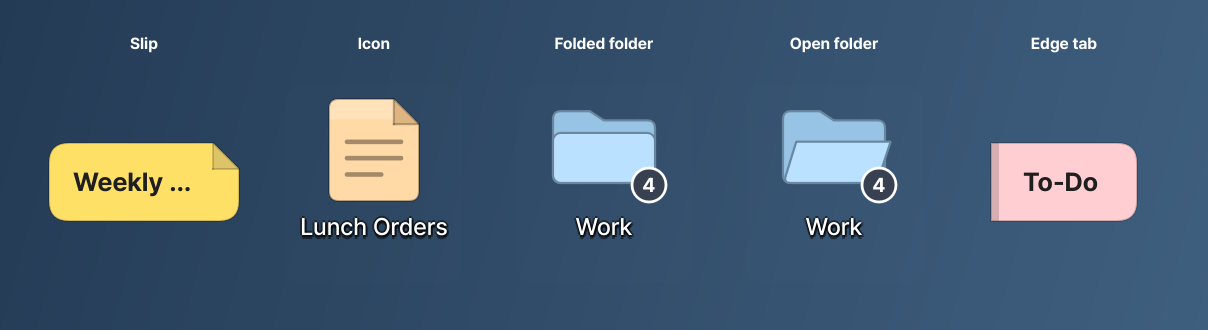
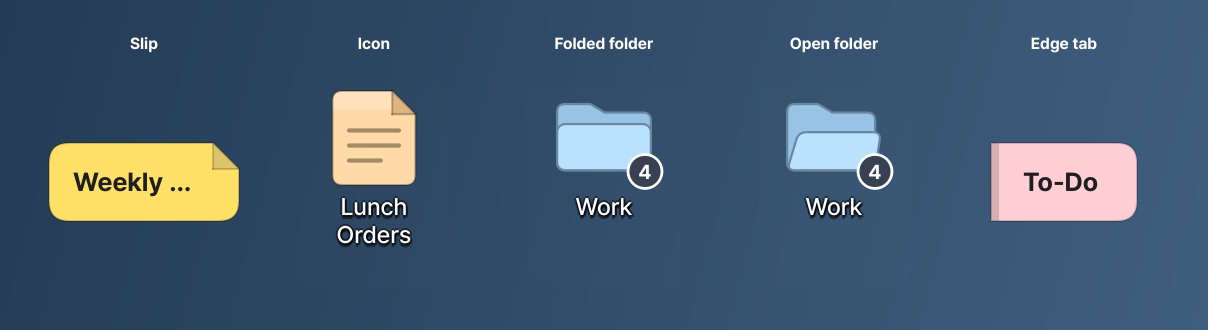
소개 그림이 새로 고쳐도 옛것으로 보이던 것
그림 파일만 바꾸면 주소가 같아 브라우저가 캐시의 옛 그림을 다시 썼다. 세 언어
페이지의 그림 주소에 ?v=1.0.4 를 붙였다(그림을 바꾸면 이 값도 바꾼다). README 의
아이콘 그림도 1.0.4 화면으로 바꿨다.

Changed region(s): [[0.245, 0.2727, 0.3675, 0.7576], [0.6432, 0.303, 0.7657, 0.7273], [0.4594, 0.303, 0.5513, 0.7273]]

diff --git a/docs/ja/index.html b/docs/ja/index.html
@@ -9,7 +9,7 @@
 <meta property="og:type" content="website">
 <meta property="og:title" content="メミメモ">
 <meta property="og:description" content="オフィスの PC 同士で一緒に使うデスクトップメモ。外部のインターネットには接続せず、社内ネットワークの中だけで同期します。">
-<meta property="og:image" content="https://leeseunggyu8.github.io/MemilMemo/images/ja/hero.png">
+<meta property="og:image" content="https://leeseunggyu8.github.io/MemilMemo/images/ja/hero.png?v=1.0.4">
 <meta property="og:url" content="https://leeseunggyu8.github.io/MemilMemo/ja/">
 <meta property="og:locale" content="ja_JP">
 <link rel="canonical" href="https://leeseunggyu8.github.io/MemilMemo/ja/">
@@ -71,7 +71,7 @@
         <div class="vis">
           <!-- assets/scene.js draws the moving scene here. Its text is at the bottom of this file. -->
           <figure class="shot" id="scene" role="img" aria-label="2台の PC が同じメモを一緒に使い、デスクトップでメモを付箋やアイコンに折りたたんで画面の端に固定したりフォルダーに入れたりする様子">
-            <noscript><img src="../images/ja/hero.png" width="1600" height="790" alt="デスクトップに貼ったメモとメインウィンドウ"></noscript>
+            <noscript><img src="../images/ja/hero.png?v=1.0.4" width="1600" height="790" alt="デスクトップに貼ったメモとメインウィンドウ"></noscript>
           </figure>
           <ol class="trail" id="trail" aria-hidden="true">
             <li>一緒に使う</li>
@@ -116,7 +116,7 @@
             <h3>編集履歴のリアルタイム確認と復元</h3>
             <p>編集中のユーザーを表示し、編集履歴から好きな時点に復元します。</p>
           </div>
-          <figure class="shot"><img src="../images/ja/together.png" width="1700" height="700" loading="lazy" alt="参加者ウィンドウ、編集履歴ウィンドウ、ほかの人が編集中のメモ"></figure>
+          <figure class="shot"><img src="../images/ja/together.png?v=1.0.4" width="1700" height="700" loading="lazy" alt="参加者ウィンドウ、編集履歴ウィンドウ、ほかの人が編集中のメモ"></figure>
         </div>
 
         <div class="feature flip reveal">
@@ -124,7 +124,7 @@
             <h3>メモの折りたたみと画面端への固定</h3>
             <p>付箋やアイコンに折りたたみ、画面の端までドラッグしてタブとして固定します。開くと元の場所に戻ります。</p>
           </div>
-          <figure class="shot"><img src="../images/ja/fold.gif" width="560" height="380" loading="lazy" alt="メモが付箋に折りたたまれ、画面の端にタブとして固定される様子"></figure>
+          <figure class="shot"><img src="../images/ja/fold.gif?v=1.0.4" width="560" height="380" loading="lazy" alt="メモが付箋に折りたたまれ、画面の端にタブとして固定される様子"></figure>
         </div>
 
         <div class="feature reveal">
@@ -132,7 +132,7 @@
             <h3>デスクトップアイコンへの折りたたみ</h3>
             <p>メモとフォルダーをアイコンに折りたたむと、デスクトップのほかのアイコンと同じ大きさ、同じ間隔で並びます。</p>
           </div>
-          <figure class="shot"><img src="../images/ja/desktop-icons.png" width="1328" height="656" loading="lazy" alt="PC、ごみ箱、ネットワークのアイコンの横に同じ大きさで並んだメモのアイコンとフォルダーのアイコン、その横に開いたメモ"></figure>
+          <figure class="shot"><img src="../images/ja/desktop-icons.png?v=1.0.4" width="1328" height="656" loading="lazy" alt="PC、ごみ箱、ネットワークのアイコンの横に同じ大きさで並んだメモのアイコンとフォルダーのアイコン、その横に開いたメモ"></figure>
         </div>
 
         <div class="feature flip reveal">
@@ -140,7 +140,7 @@
             <h3>ファイルとフォルダーへのショートカットリンク</h3>
             <p>共有フォルダーのファイルやフォルダーをリンクとして入れ、種類ごとのアイコンで見分けます。</p>
           </div>
-          <figure class="shot"><img src="../images/ja/links.png" width="1120" height="470" loading="lazy" alt="種類ごとのアイコンが付いたリンク入りのメモと、リンクのウィンドウ"></figure>
+          <figure class="shot"><img src="../images/ja/links.png?v=1.0.4" width="1120" height="470" loading="lazy" alt="種類ごとのアイコンが付いたリンク入りのメモと、リンクのウィンドウ"></figure>
         </div>
 
         <div class="feature reveal">
@@ -148,7 +148,7 @@
             <h3>やることリストと書式</h3>
             <p>チェックボックス、箇条書き、文字色、蛍光ペン、画像に対応しています。</p>
           </div>
-          <figure class="shot"><img src="../images/ja/editing.png" width="1400" height="600" loading="lazy" alt="編集中のメモ、書式メニュー、画像ビューアー"></figure>
+          <figure class="shot"><img src="../images/ja/editing.png?v=1.0.4" width="1400" height="600" loading="lazy" alt="編集中のメモ、書式メニュー、画像ビューアー"></figure>
         </div>
 
         <dl class="more">

diff --git a/docs/index.html b/docs/index.html
@@ -9,7 +9,7 @@
 <meta property="og:type" content="website">
 <meta property="og:title" content="메밀메모">
 <meta property="og:description" content="사무실 PC끼리 같이 쓰는 바탕화면 메모. 외부 인터넷 접속 없이 내부망 안에서만 동기화됩니다.">
-<meta property="og:image" content="https://leeseunggyu8.github.io/MemilMemo/images/hero.png">
+<meta property="og:image" content="https://leeseunggyu8.github.io/MemilMemo/images/hero.png?v=1.0.4">
 <meta property="og:url" content="https://leeseunggyu8.github.io/MemilMemo/">
 <meta property="og:locale" content="ko_KR">
 <link rel="canonical" href="https://leeseunggyu8.github.io/MemilMemo/">
@@ -71,7 +71,7 @@
         <div class="vis">
           <!-- 움직이는 장면은 assets/scene.js 가 여기에 그린다. 장면 안의 글은 이 파일 맨 아래에 있다. -->
           <figure class="shot" id="scene" role="img" aria-label="PC 두 대가 같은 메모를 함께 쓰고, 바탕화면에서 메모를 쪽지와 아이콘으로 접어 화면 끝에 붙이거나 폴더에 넣는 모습">
-            <noscript><img src="images/hero.png" width="1600" height="790" alt="바탕화면에 붙은 메모들과 메인 창"></noscript>
+            <noscript><img src="images/hero.png?v=1.0.4" width="1600" height="790" alt="바탕화면에 붙은 메모들과 메인 창"></noscript>
           </figure>
           <ol class="trail" id="trail" aria-hidden="true">
             <li>함께 쓰기</li>
@@ -116,7 +116,7 @@
             <h3>메모 이력 실시간 확인 및 복원</h3>
             <p>편집 중인 사용자를 표시하고, 수정 이력에서 원하는 시점으로 복원합니다.</p>
           </div>
-          <figure class="shot"><img src="images/together.png" width="1700" height="700" loading="lazy" alt="참가자 창, 수정 이력 창, 다른 사람이 편집 중인 메모"></figure>
+          <figure class="shot"><img src="images/together.png?v=1.0.4" width="1700" height="700" loading="lazy" alt="참가자 창, 수정 이력 창, 다른 사람이 편집 중인 메모"></figure>
         </div>
 
         <div class="feature flip reveal">
@@ -124,7 +124,7 @@
             <h3>메모 접기 및 화면 가장자리 고정</h3>
             <p>쪽지나 아이콘으로 접고, 화면 끝으로 끌어 탭으로 고정합니다. 펴면 원래 자리로 돌아옵니다.</p>
           </div>
-          <figure class="shot"><img src="images/fold.gif" width="560" height="380" loading="lazy" alt="메모가 쪽지로 접히고 화면 가장자리에 탭으로 붙는 모습"></figure>
+          <figure class="shot"><img src="images/fold.gif?v=1.0.4" width="560" height="380" loading="lazy" alt="메모가 쪽지로 접히고 화면 가장자리에 탭으로 붙는 모습"></figure>
         </div>
 
         <div class="feature reveal">
@@ -132,7 +132,7 @@
             <h3>바탕화면 아이콘으로 접기</h3>
             <p>메모와 폴더를 아이콘으로 접으면 바탕화면의 다른 아이콘과 같은 크기, 같은 간격으로 정렬됩니다.</p>
           </div>
-          <figure class="shot"><img src="images/desktop-icons.png" width="1328" height="656" loading="lazy" alt="내 PC, 휴지통, 네트워크 아이콘 옆에 같은 크기로 놓인 메모 아이콘과 폴더 아이콘, 그 옆에 펼쳐 둔 메모"></figure>
+          <figure class="shot"><img src="images/desktop-icons.png?v=1.0.4" width="1328" height="656" loading="lazy" alt="내 PC, 휴지통, 네트워크 아이콘 옆에 같은 크기로 놓인 메모 아이콘과 폴더 아이콘, 그 옆에 펼쳐 둔 메모"></figure>
         </div>
 
         <div class="feature flip reveal">
@@ -140,7 +140,7 @@
             <h3>파일과 폴더 바로 가기 링크</h3>
             <p>공유 폴더의 파일과 폴더를 링크로 넣고, 종류별 아이콘으로 구분합니다.</p>
           </div>
-          <figure class="shot"><img src="images/links.png" width="1120" height="470" loading="lazy" alt="종류별 아이콘이 붙은 링크가 든 메모와 링크 창"></figure>
+          <figure class="shot"><img src="images/links.png?v=1.0.4" width="1120" height="470" loading="lazy" alt="종류별 아이콘이 붙은 링크가 든 메모와 링크 창"></figure>
         </div>
 
         <div class="feature reveal">
@@ -148,7 +148,7 @@
             <h3>할 일 목록과 서식</h3>
             <p>체크박스, 글머리 기호, 글자 색, 형광펜, 이미지를 지원합니다.</p>
           </div>
-          <figure class="shot"><img src="images/editing.png" width="1400" height="600" loading="lazy" alt="편집 중인 메모, 서식 메뉴, 이미지 뷰어"></figure>
+          <figure class="shot"><img src="images/editing.png?v=1.0.4" width="1400" height="600" loading="lazy" alt="편집 중인 메모, 서식 메뉴, 이미지 뷰어"></figure>
         </div>
 
         <dl class="more">

diff --git a/docs/en/index.html b/docs/en/index.html
@@ -9,7 +9,7 @@
 <meta property="og:type" content="website">
 <meta property="og:title" content="MemilMemo">
 <meta property="og:description" content="Desktop notes shared across your office PCs. Notes sync inside your local network only, never over the internet.">
-<meta property="og:image" content="https://leeseunggyu8.github.io/MemilMemo/images/en/hero.png">
+<meta property="og:image" content="https://leeseunggyu8.github.io/MemilMemo/images/en/hero.png?v=1.0.4">
 <meta property="og:url" content="https://leeseunggyu8.github.io/MemilMemo/en/">
 <meta property="og:locale" content="en_US">
 <link rel="canonical" href="https://leeseunggyu8.github.io/MemilMemo/en/">
@@ -71,7 +71,7 @@
         <div class="vis">
           <!-- assets/scene.js draws the moving scene here. Its text is at the bottom of this file. -->
           <figure class="shot" id="scene" role="img" aria-label="Two PCs using the same notes together, then one desktop where notes fold into slips and icons, dock to the screen edge, and drop into a folder">
-            <noscript><img src="../images/en/hero.png" width="1600" height="790" alt="Notes on the desktop and the main window"></noscript>
+            <noscript><img src="../images/en/hero.png?v=1.0.4" width="1600" height="790" alt="Notes on the desktop and the main window"></noscript>
           </figure>
           <ol class="trail" id="trail" aria-hidden="true">
             <li>Sharing</li>
@@ -116,7 +116,7 @@
             <h3>Real-time edit history and restore</h3>
             <p>Shows who is editing a note, and restores any earlier point from the edit history.</p>
           </div>
-          <figure class="shot"><img src="../images/en/together.png" width="1700" height="700" loading="lazy" alt="The Participants window, the Edit history window, and a note someone else is editing"></figure>
+          <figure class="shot"><img src="../images/en/together.png?v=1.0.4" width="1700" height="700" loading="lazy" alt="The Participants window, the Edit history window, and a note someone else is editing"></figure>
         </div>
 
         <div class="feature flip reveal">
@@ -124,7 +124,7 @@
             <h3>Folding notes and docking to the screen edge</h3>
             <p>Fold a note into a slip or an icon, and drag it to the screen edge to dock it as a tab. Unfold it and it returns to where it was.</p>
           </div>
-          <figure class="shot"><img src="../images/en/fold.gif" width="560" height="380" loading="lazy" alt="A note folding into a slip and docking to the screen edge as a tab"></figure>
+          <figure class="shot"><img src="../images/en/fold.gif?v=1.0.4" width="560" height="380" loading="lazy" alt="A note folding into a slip and docking to the screen edge as a tab"></figure>
         </div>
 
         <div class="feature reveal">
@@ -132,7 +132,7 @@
             <h3>Folding into desktop icons</h3>
             <p>Notes and folders folded into icons line up with your other desktop icons, at the same size and spacing.</p>
           </div>
-          <figure class="shot"><img src="../images/en/desktop-icons.png" width="1328" height="656" loading="lazy" alt="Note icons and folder icons at the same size beside the This PC, Recycle Bin and Network icons, with an open note next to them"></figure>
+          <figure class="shot"><img src="../images/en/desktop-icons.png?v=1.0.4" width="1328" height="656" loading="lazy" alt="Note icons and folder icons at the same size beside the This PC, Recycle Bin and Network icons, with an open note next to them"></figure>
         </div>
 
         <div class="feature flip reveal">
@@ -140,7 +140,7 @@
             <h3>Shortcut links to files and folders</h3>
             <p>Put files and folders from a shared folder into a note as links, each marked with an icon for its type.</p>
           </div>
-          <figure class="shot"><img src="../images/en/links.png" width="1120" height="470" loading="lazy" alt="A note with links marked by file type icons, and the link window"></figure>
+          <figure class="shot"><img src="../images/en/links.png?v=1.0.4" width="1120" height="470" loading="lazy" alt="A note with links marked by file type icons, and the link window"></figure>
         </div>
 
         <div class="feature reveal">
@@ -148,7 +148,7 @@
             <h3>To-do lists and formatting</h3>
             <p>Supports checkboxes, bullets, text color, highlighting, and images.</p>
           </div>
-          <figure class="shot"><img src="../images/en/editing.png" width="1400" height="600" loading="lazy" alt="A note being edited, the formatting menus, and the image viewer"></figure>
+          <figure class="shot"><img src="../images/en/editing.png?v=1.0.4" width="1400" height="600" loading="lazy" alt="A note being edited, the formatting menus, and the image viewer"></figure>
         </div>
 
         <dl class="more">
